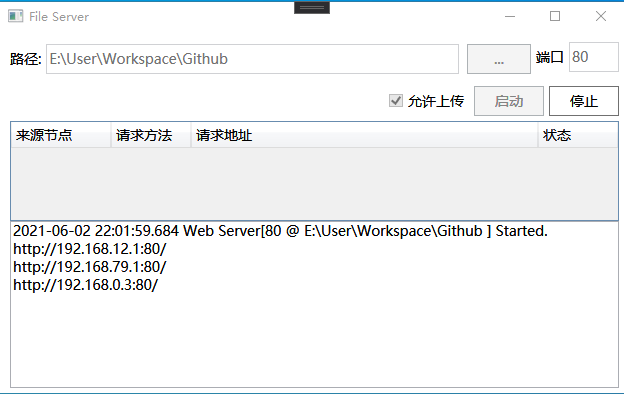
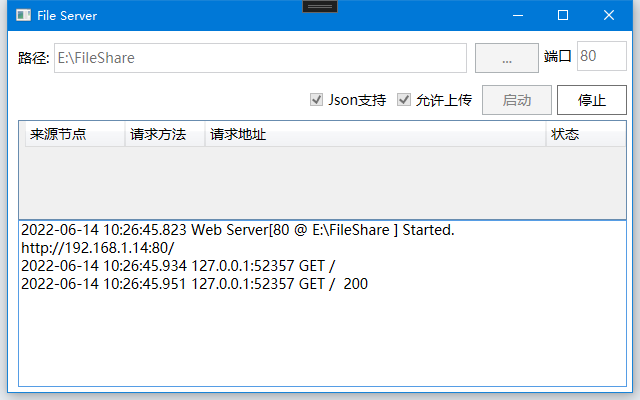
更新readme

Changed region(s): [[0.0, 0.0, 1.0, 1.0]]

diff --git a/README.md b/README.md
@@ -4,7 +4,7 @@ http文件服务器 可用于局域网内目录浏览和文件下载、上传
 
 http server for browse directory and download / upload files
 
-支持将目录信息响应为json格式
+支持将目录信息响应为json格式(发起HTTP请求时将Header中的Accept设置为application/json)
 
 ## PS
 
@@ -14,9 +14,16 @@ http server for browse directory and download / upload files
 
 
 ### 截图
+
+程序界面
 ![主程序界面](images/main.png)
 
+网页界面
 ![网页界面](images/web.png)
 
+上传界面
 ![网页上传界面](images/web_upload.png)
+
+JSON响应
+![JSON响应界面](images/json_response.png)
 
